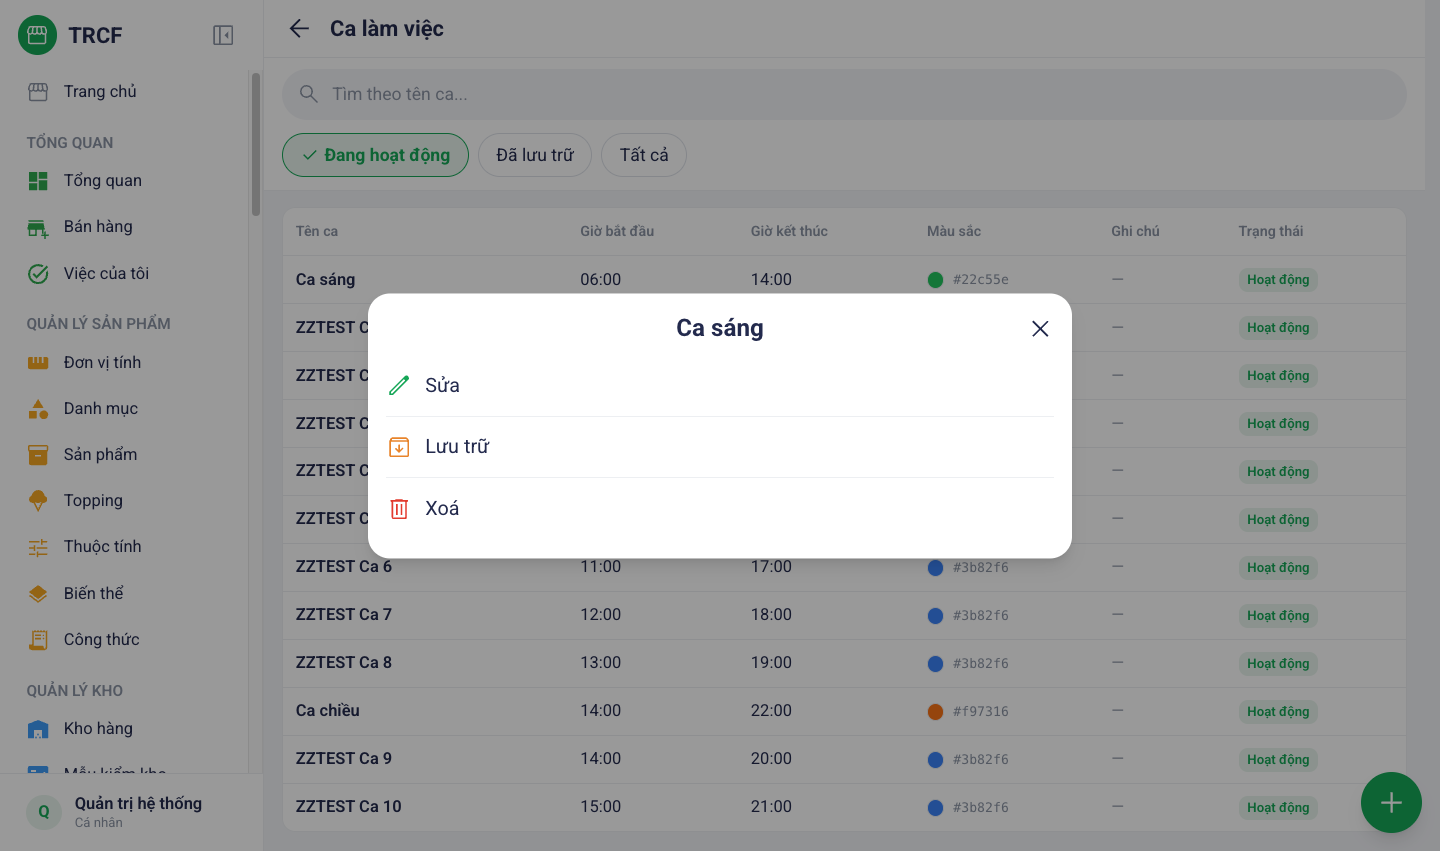
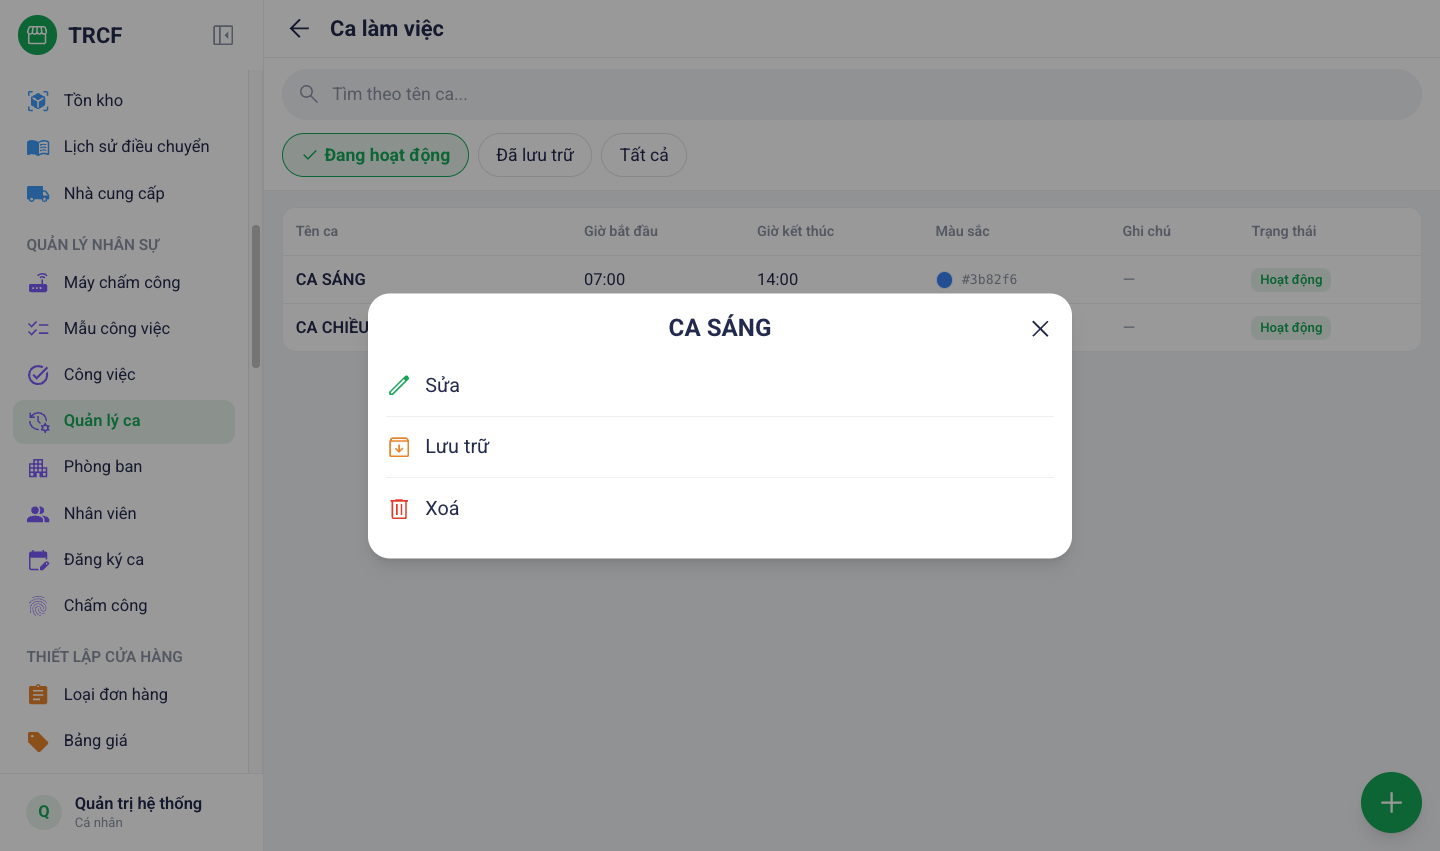
docs(9.1): ca làm việc thật — CA SÁNG 07:00–14:00, CA CHIỀU 14:00–21:00

diff --git a/noi-dung/9-1-tao-ca-lam-viec.md b/noi-dung/9-1-tao-ca-lam-viec.md
@@ -10,10 +10,10 @@ Menu trái: ==Quản lý nhân sự → Quản lý ca== (địa chỉ `/shifts`,
 
 ## 2. Ví dụ nền và các bước thực hiện
 
-> **Ví dụ:** quán có 2 ca.
+> **Ví dụ:** quán mở 07:00–21:00, chia 2 ca nối nhau.
 >
-> - **Ca sáng**: từ **07:00** đến **12:00**.
-> - **Ca qua đêm**: từ **22:00** đến **06:00** (giờ kết thúc sớm hơn giờ bắt đầu, vẫn hợp lệ).
+> - **CA SÁNG**: từ **07:00** đến **14:00**.
+> - **CA CHIỀU**: từ **14:00** đến **21:00**.
 
 ### Bước 1: Mở trang Ca làm việc
 
@@ -21,17 +21,18 @@ Menu trái: ==Quản lý nhân sự → Quản lý ca== (địa chỉ `/shifts`,
 
 ![Bước 1: Mở trang Ca làm việc](images/07-ca-lam-viec-buoc-1-danh-sach.png)
 
-### Bước 2: Khai Ca sáng
+### Bước 2: Khai CA SÁNG
 
 - Bấm nút tròn **+** ở góc dưới bên phải.
 - Điền như ảnh, bấm **Thêm ca làm việc**.
 
-![Bước 2: Khai Ca sáng](images/07-ca-lam-viec-buoc-2-form.png)
+![Bước 2: Khai CA SÁNG](images/07-ca-lam-viec-buoc-2-form.png)
 
 ### Bước 3: Kiểm tra kết quả
 
 - Ca hiện trong danh sách với đúng khung giờ.
-- Lặp lại bước 2 cho từng ca khác, kể cả ca qua đêm (22:00 → 06:00).
+- Lặp lại bước 2 cho **CA CHIỀU**: 14:00 → 21:00, chọn màu khác để dễ phân biệt trên lịch.
+- Quán có ca qua đêm thì giờ kết thúc được phép sớm hơn giờ bắt đầu (VD 22:00 → 06:00).
 - Đổi giờ sau này: bấm vào ca, chọn **Sửa**. Ngừng dùng ca: chọn **Lưu trữ**.
 
 ![Bước 3: Bấm vào ca để mở thao tác](images/07-ca-lam-viec-buoc-3-ket-qua.png)
@@ -40,7 +41,7 @@ Menu trái: ==Quản lý nhân sự → Quản lý ca== (địa chỉ `/shifts`,
 
 | Trường | Điền gì | Bắt buộc |
 | --- | --- | --- |
-| Tên ca | VD **Ca sáng**, **Ca chiều**, **Ca gãy** | ✅ |
+| Tên ca | VD **CA SÁNG**, **CA CHIỀU** | ✅ |
 | Giờ bắt đầu | Giờ vào ca | ✅ |
 | Giờ kết thúc | Giờ tan ca. **Được phép sớm hơn giờ bắt đầu** (ca qua đêm 22:00 → 06:00, trễ/sớm vẫn tính đúng) | ✅ |
 | Màu sắc | Mã màu, hoặc bấm ô màu để chọn. Màu hiện trên lịch tuần | — |
@@ -48,4 +49,4 @@ Menu trái: ==Quản lý nhân sự → Quản lý ca== (địa chỉ `/shifts`,
 
 ## 4. Lưu ý quan trọng
 
-> - Đặt tên ca theo cách nhân viên hay gọi (**Ca sáng**, **Ca chiều**).
+> - Đặt tên ca theo cách nhân viên hay gọi (**CA SÁNG**, **CA CHIỀU**).
